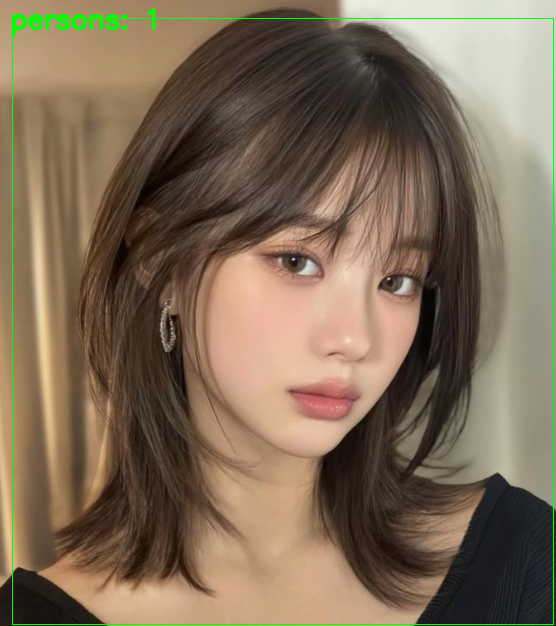
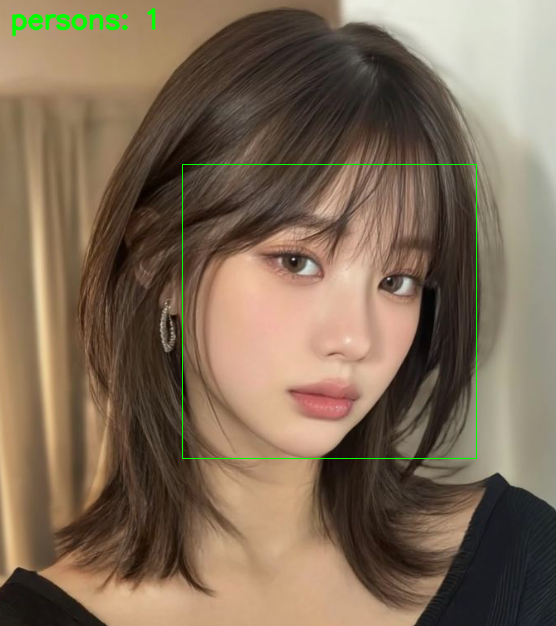
squares are face-only in person_detection_count

Changed region(s): [[0.9784, 0.9712, 1.0, 1.0]]

diff --git a/src/elect_mt/processor.py b/src/elect_mt/processor.py
@@ -245,147 +245,24 @@ def _to_object_detection_count(bgr: np.ndarray, model=None) -> np.ndarray:
         model = _get_segmentation_model()
 
     draw_boxes: list[tuple[int, int, int, int]] = []
-
-    yolo = _get_yolo_model()
-    if yolo is not None:
-        try:
-            predict = getattr(yolo, "predict", None)
-            if predict is None:
-                raise AttributeError("YOLO model has no predict method")
-            results = predict(bgr, verbose=False, conf=0.25)
-            if results:
-                result = results[0]
-                boxes = getattr(result, "boxes", None)
-                names = getattr(result, "names", {})
-                if boxes is not None:
-                    classes = boxes.cls.cpu().numpy().astype(int)
-                    xyxy = boxes.xyxy.cpu().numpy()
-                    person_class = None
-                    for key, value in names.items():
-                        if value == "person":
-                            person_class = int(key)
-                            break
-                    if person_class is None:
-                        person_class = 0
-                    person_mask = classes == person_class
-                    count = int(np.sum(person_mask))
-                    out = bgr.copy()
-                    for box in xyxy[person_mask]:
-                        x1, y1, x2, y2 = [int(v) for v in box]
-                        cv2.rectangle(out, (x1, y1), (x2, y2), (0, 255, 0), 1)
-                    cv2.putText(
-                        out,
-                        f"persons: {count}",
-                        (10, 28),
-                        cv2.FONT_HERSHEY_SIMPLEX,
-                        0.9,
-                        (0, 255, 0),
-                        2,
-                        cv2.LINE_AA,
-                    )
-                    return out
-        except Exception as exc:
-            logger.warning("YOLO inference failed; falling back. (%s)", exc)
-
-    hog = cv2.HOGDescriptor()
-    people_detector = getattr(cv2, "HOGDescriptor_getDefaultPeopleDetector", None)
-    if people_detector is None:
-        logger.warning("HOG people detector is unavailable.")
-    else:
-        hog.setSVMDetector(people_detector())
-
-    def _nms(boxes, scores, iou_thresh=0.6):
-        if not boxes:
-            return []
-        order = sorted(range(len(boxes)), key=lambda i: scores[i], reverse=True)
-        kept = []
-
-        def iou(a, b):
-            ax1, ay1, ax2, ay2 = a
-            bx1, by1, bx2, by2 = b
-            inter_x1 = max(ax1, bx1)
-            inter_y1 = max(ay1, by1)
-            inter_x2 = min(ax2, bx2)
-            inter_y2 = min(ay2, by2)
-            if inter_x2 <= inter_x1 or inter_y2 <= inter_y1:
-                return 0.0
-            inter = (inter_x2 - inter_x1) * (inter_y2 - inter_y1)
-            area_a = (ax2 - ax1) * (ay2 - ay1)
-            area_b = (bx2 - bx1) * (by2 - by1)
-            return inter / max(1e-6, area_a + area_b - inter)
-
-        while order:
-            i = order.pop(0)
-            kept.append(boxes[i])
-            order = [j for j in order if iou(boxes[i], boxes[j]) < iou_thresh]
-        return kept
-
     count = 0
 
-    if people_detector is not None:
-        h, w = bgr.shape[:2]
-        scale = 1.0
-        max_side = max(h, w)
+    haar_dir = getattr(getattr(cv2, "data", object()), "haarcascades", "")
+    cascade_path = os.path.join(haar_dir, "haarcascade_frontalface_default.xml")
+    face_cascade = cv2.CascadeClassifier(cascade_path)
 
-        if max_side < 600:
-            scale = 800 / max_side
-        elif max_side > 1200:
-            scale = 1200 / max_side
+    if not face_cascade.empty():
+        gray = cv2.cvtColor(bgr, cv2.COLOR_BGR2GRAY)
+        gray = cv2.equalizeHist(gray)
 
-        resized = cv2.resize(bgr, (int(w * scale), int(h * scale))) if scale != 1.0 else bgr
-
-        rects, weights = hog.detectMultiScale(
-            resized,
-            winStride=(8, 8),
-            padding=(16, 16),
-            scale=1.05,
+        faces = face_cascade.detectMultiScale(
+            gray,
+            scaleFactor=1.1,
+            minNeighbors=5,
+            minSize=(40, 40),
         )
-
-        boxes, scores = [], []
-        min_h = int(resized.shape[0] * 0.30)
-
-        for i, (x, y, rw, rh) in enumerate(rects):
-            score = float(weights[i]) if i < len(weights) else 1.0
-            if score < 0.8:
-                continue
-            if rh < min_h:
-                continue
-            aspect = rh / max(1, rw)
-            if not (1.5 <= aspect <= 4.0):
-                continue
-
-            boxes.append((x, y, x + rw, y + rh))
-            scores.append(score)
-
-        draw_boxes = _nms(boxes, scores, 0.6)
+        draw_boxes = [(x, y, x + fw, y + fh) for (x, y, fw, fh) in faces]
         count = len(draw_boxes)
-
-    if count == 0:
-        haar_dir = getattr(getattr(cv2, "data", object()), "haarcascades", "")
-        cascade_path = os.path.join(haar_dir, "haarcascade_frontalface_default.xml")
-        face_cascade = cv2.CascadeClassifier(cascade_path)
-
-        if not face_cascade.empty():
-            gray = cv2.cvtColor(bgr, cv2.COLOR_BGR2GRAY)
-            gray = cv2.equalizeHist(gray)
-
-            faces = face_cascade.detectMultiScale(
-                gray,
-                scaleFactor=1.1,
-                minNeighbors=5,
-                minSize=(40, 40),
-            )
-            draw_boxes = [(x, y, x + fw, y + fh) for (x, y, fw, fh) in faces]
-            count = len(draw_boxes)
-
-    if count == 0:
-        seg_mask = _safe_process_segmentation(bgr, model)
-        if seg_mask is not None:
-            mask = (seg_mask > 0.6).astype(np.uint8) * 255
-            kernel = cv2.getStructuringElement(cv2.MORPH_ELLIPSE, (5, 5))
-            mask = cv2.morphologyEx(mask, cv2.MORPH_OPEN, kernel, iterations=2)
-            num_labels, _ = cv2.connectedComponents(mask)
-            count = max(0, num_labels - 1)
 
     out = bgr.copy()
     for (x1, y1, x2, y2) in draw_boxes:
